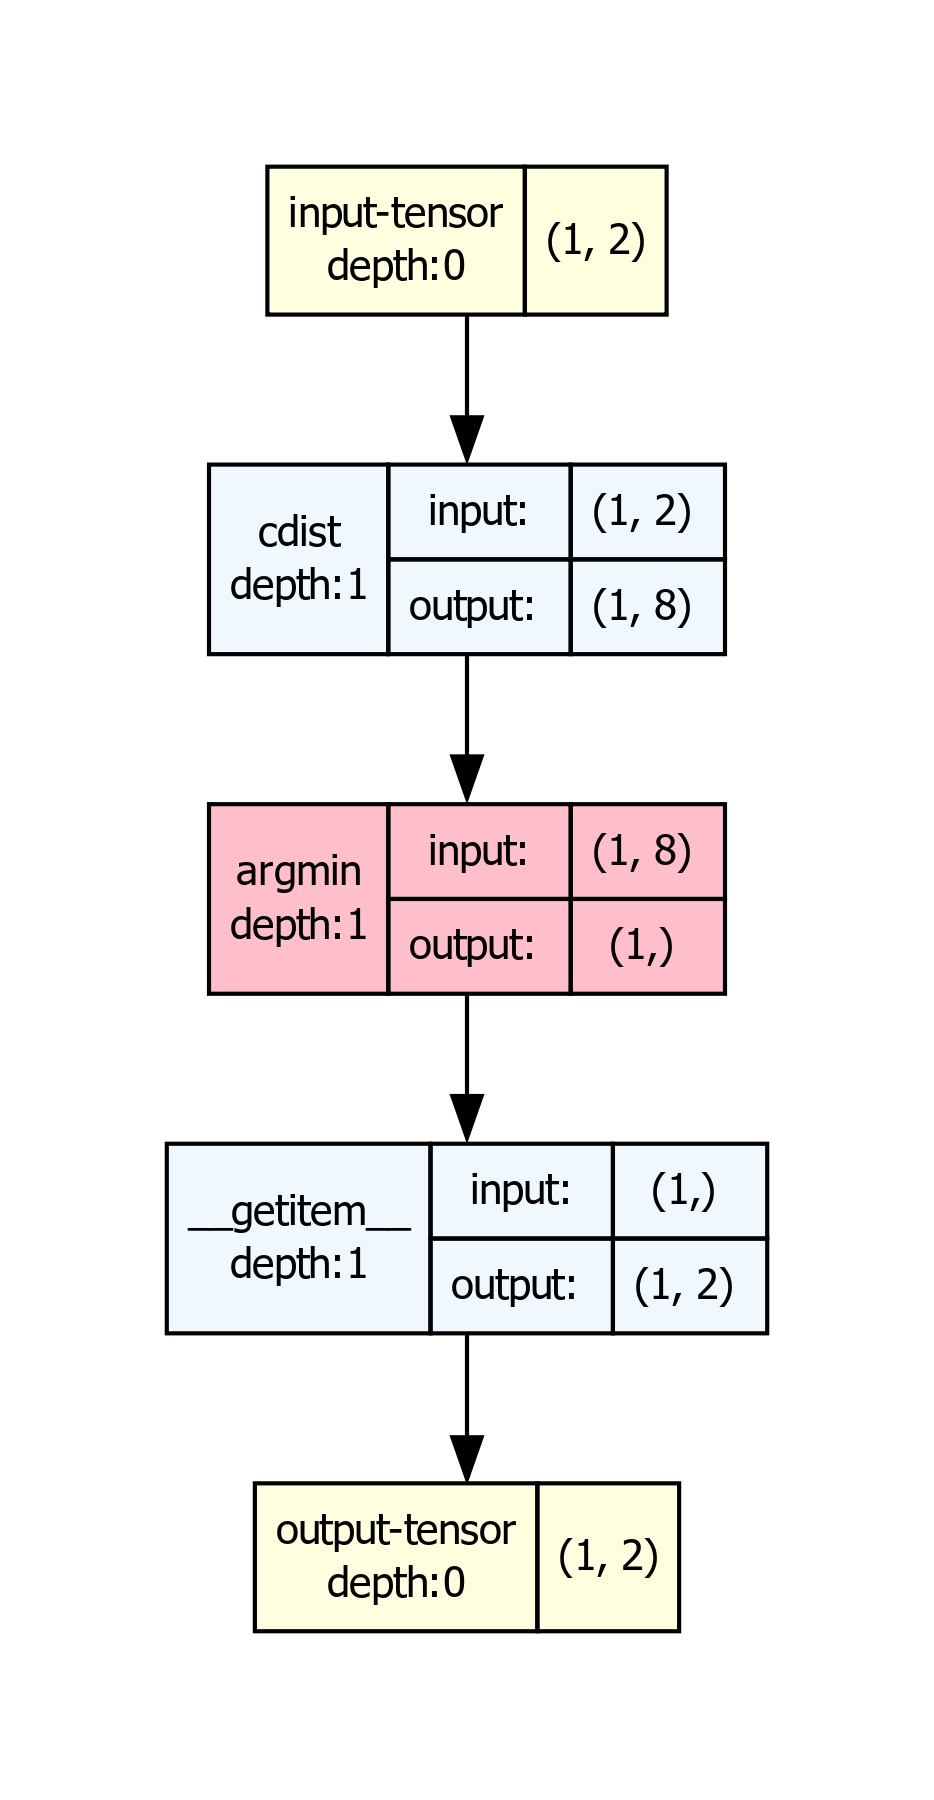
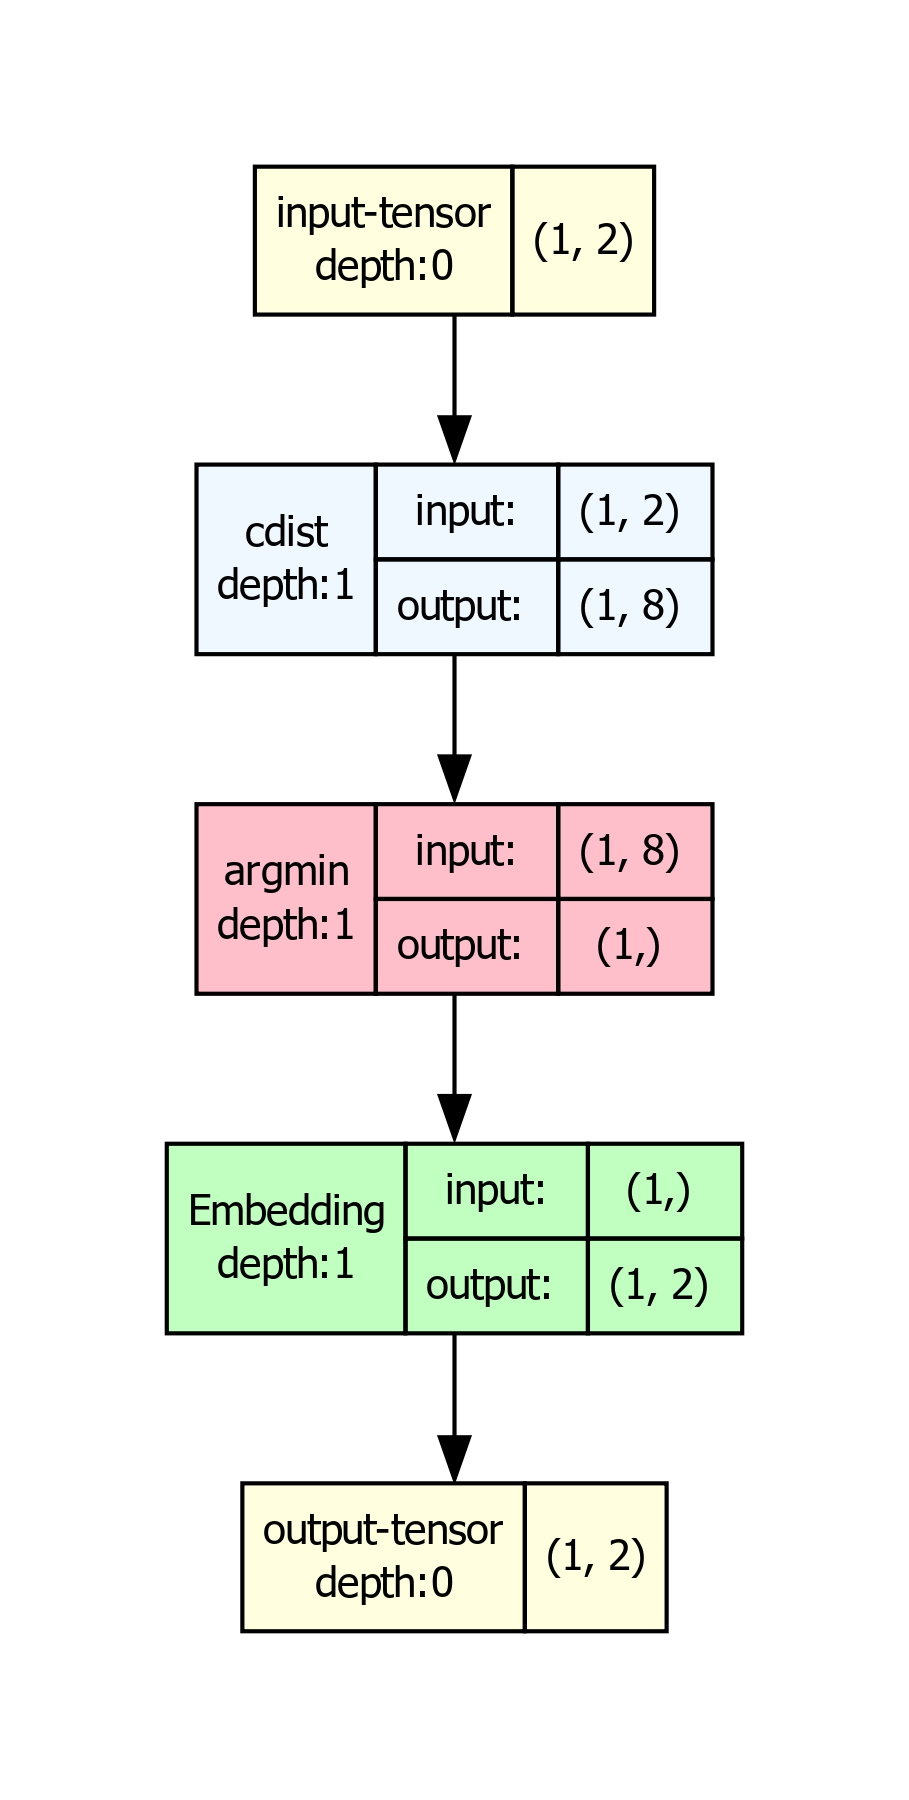
fix the images side by side

diff --git a/chaps/chap2_tokenizer.md b/chaps/chap2_tokenizer.md
@@ -185,9 +185,7 @@ rand = torch.rand((1,2))
 
 | 通り抜けえない | 通り抜く |
 | :---: | :---: |
-| 
-![alt text](assets/chap2_tokenizer/images/non-ste_page-0001.jpg)| ![alt text](assets/chap2_tokenizer/images/ste_page-0001.jpg)
- |
+| ![alt text](assets/chap2_tokenizer/images/non-ste_page-0001.jpg)| ![alt text](assets/chap2_tokenizer/images/ste_page-0001.jpg)|
 
 
 ### いったん組み立てる
